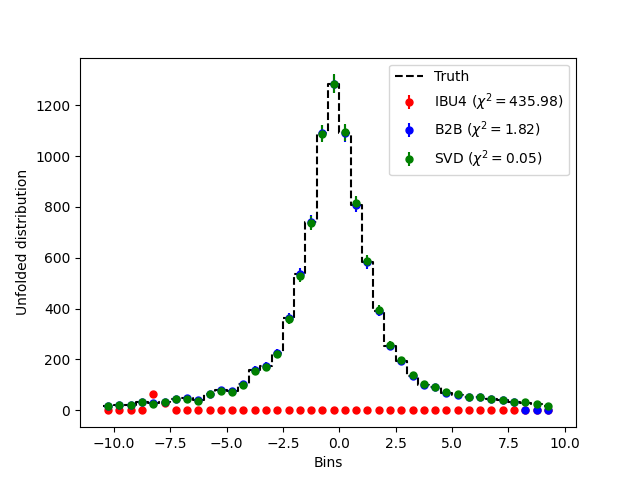
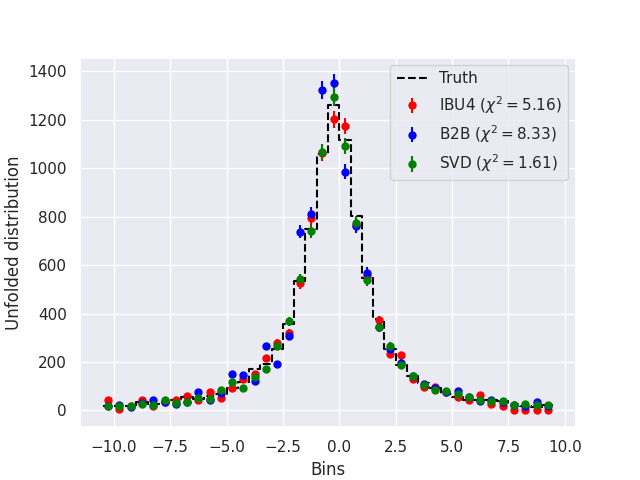
Studies update.

diff --git a/studies/functions/comparisons.py b/studies/functions/comparisons.py
@@ -8,9 +8,6 @@
 # Date:       2023-06-26
 # Copyright:  (c) 2023 Gianluca Bianco under the MIT license.
 
-# Input variables
-distributions=["breit-wigner", "normal", "double-peaked"]
-
 # STD modules
 import argparse as ap
 import os
@@ -71,7 +68,7 @@ def compute_chi2_dof(bin_contents, truth_bin_contents):
     return chi2_dof
 
 
-def plot_unfolded_distr(data, distr):
+def plot_comparisons(data, distr, truth, bins, min_bin, max_bin):
     """
     Plots the unfolded distributions for different unfolding methods.
 
@@ -81,48 +78,40 @@ def plot_unfolded_distr(data, distr):
     """
 
     # Get binning information
-    binning_file = "../data/{}/binning.txt".format(distr)
-    binning = np.loadtxt(binning_file)
-    bins = int(binning[0])
-    min_bin = int(binning[1])
-    max_bin = int(binning[2])
-    bin_edges = np.linspace(min_bin, max_bin, bins + 1)
+    
 
     # Plot truth distribution
+    bin_edges = np.linspace(min_bin, max_bin, bins + 1)
     marker_offset = (bin_edges[1] - bin_edges[0]) / 2.0
-    truth_bin_contents = np.loadtxt(
-        "../data/{}/truth_bin_content.txt".format(distr)
-    )
     plt.step(
         x=np.concatenate(
             ([bin_edges[0] - (bin_edges[1] - bin_edges[0])], bin_edges[:-1])
         ),
-        y=np.concatenate(([truth_bin_contents[0]], truth_bin_contents)),
+        y=np.concatenate(([truth[0]], truth)),
         label="Truth",
         color="black",
         linestyle="dashed",
     )
 
     # Iterate over the unfolding methods
-    for method, file in data.items():
+    for method, unfolded in data.items():
 
         # Plot each unfolding method
-        bin_contents = np.loadtxt(file)
-        truth_bin_contents = np.where(
-            truth_bin_contents == 0, 1e-6, truth_bin_contents
+        truth = np.where(
+            truth == 0, 1e-6, truth
         )  # Trick for chi2
-        chi2_dof = compute_chi2_dof(bin_contents, truth_bin_contents)
+        chi2_dof = compute_chi2_dof(unfolded, truth)
         if method == "IBU4":
             plot_errorbar(
-                bin_edges - marker_offset, bin_contents, "red", "o", method, chi2_dof
+                bin_edges - marker_offset, unfolded, "red", "o", method, chi2_dof
             )
         elif method == "B2B":
             plot_errorbar(
-                bin_edges - marker_offset, bin_contents, "blue", "o", method, chi2_dof
+                bin_edges - marker_offset, unfolded, "blue", "o", method, chi2_dof
             )
         elif method == "SVD":
             plot_errorbar(
-                bin_edges - marker_offset, bin_contents, "green", "o", method, chi2_dof
+                bin_edges - marker_offset, unfolded, "green", "o", method, chi2_dof
             )
 
         # Plot settings
@@ -134,32 +123,6 @@ def plot_unfolded_distr(data, distr):
         plt.savefig("../img/comparisons/{}.png".format(distr))
 
     plt.close()
-    print("Done.")
 
 
-def main():
-    
-    # Iterate over distributions
-    print()
-    for distr in distributions:
-        INFO("Producing comparisons for the {} distribution".format(distr))
 
-        # Read input data for the given distribution
-        data = {
-            "IBU4": "output/RooUnfold/{}/unfolded_IBU_bin_contents.txt".format(distr),
-            "B2B": "output/RooUnfold/{}/unfolded_B2B_bin_contents.txt".format(distr),
-            "MI": "output/RooUnfold/{}/unfolded_MI_bin_contents.txt".format(distr),
-            "SVD": "output/RooUnfold/{}/unfolded_SVD_bin_contents.txt".format(distr),
-        }
-
-        # Creating the output directory
-        if not os.path.exists("../img/comparisons"):
-            os.makedirs("../img/comparisons")
-
-        # Plot the unfolded distributions for comparison with truth
-        plot_unfolded_distr(data, distr)
-        print()
-
-
-if __name__ == "__main__":
-    main()

diff --git a/studies/functions/RooUnfold.py b/studies/functions/RooUnfold.py
@@ -8,31 +8,16 @@
 # Date:       2023-06-13
 # Copyright:  (c) 2023 Gianluca Bianco under the MIT license.
 
-# Input variables
-distributions=["breit-wigner", "normal", "double-peaked", "exponential"]
-samples=10000
-max_bin=10
-min_bin=-10
-bins=40
-
-# Standard modules
+# STD modules
 import os
 
 # Data science modules
 import ROOT as r
-import numpy as np
-
-# Utils modules
-from functions.custom_logger import INFO
-from functions.ROOT_converter import (
-    TH1_to_array
-)
-from functions.generator import generate_standard, generate_double_peaked, generate
 
 # ROOT settings
 r.gROOT.SetBatch(True)
 
-def plot_response(response, distr):
+def RooUnfold_plot_response(response, distr):
     """
     Plots the unfolding response matrix.
 
@@ -40,6 +25,10 @@ def plot_response(response, distr):
         response (ROOT.RooUnfoldResponse): the response matrix to be plotted.
         distr (distr): the distribution to be generated.
     """
+    
+    # Creating the path
+    if not os.path.exists("../img/RooUnfold/{}".format(distr)):
+        os.makedirs("../img/RooUnfold/{}".format(distr))
 
     # Basic properties
     m_response_save = response.HresponseNoOverflow()
@@ -54,7 +43,7 @@ def plot_response(response, distr):
     m_response_canvas.SaveAs("../img/RooUnfold/{}/response.png".format(distr))
 
 
-def unfolder(type, m_response, h_meas, distr):
+def RooUnfold_unfolder(type, m_response, h_meas):
     """
     Unfold a distribution based on a certain type of unfolding.
 
@@ -62,7 +51,6 @@ def unfolder(type, m_response, h_meas, distr):
         type (str): the unfolding type (MI, SVD, IBU).
         m_response (ROOT.TH2F): the response matrix.
         h_meas (ROOT.TH1F): the measured pseudo-data.
-        distr (distr): the generated distribution.
 
     Returns:
         ROOT.TH1F: the unfolded histogram.
@@ -91,17 +79,10 @@ def unfolder(type, m_response, h_meas, distr):
     histo = unfolder.Hunfold()
     histo.SetName("unfolded_{}".format(type))
 
-    # Save the unfolded histogram
-    bin_contents = TH1_to_array(histo)
-    np.savetxt(
-        "output/RooUnfold/{}/unfolded_{}_bin_contents.txt".format(distr, type),
-        bin_contents,
-    )
-
     return histo
 
 
-def plot_unfolding(truth, meas, unfolded, distr):
+def RooUnfold_plot(truth, meas, unfolded, distr):
     """
     Plots the unfolding results.
 
@@ -141,36 +122,3 @@ def plot_unfolding(truth, meas, unfolded, distr):
     # Save canvas
     canvas.Draw()
     canvas.SaveAs("../img/RooUnfold/{}/unfolded_{}.png".format(distr, ext))
-
-
-def main():
-    
-    # Iterate over distributions
-    print()
-    for distr in distributions:
-        INFO("Unfolding the {} distribution".format(distr))
-
-        # Create dirs
-        if not os.path.exists("../img/RooUnfold/{}".format(distr)):
-            os.makedirs("../img/RooUnfold/{}".format(distr))
-        if not os.path.exists("output/RooUnfold/{}".format(distr)):
-            os.makedirs("output/RooUnfold/{}".format(distr))
-            
-        # Generating the distribution
-        truth, meas, response = generate(distr, bins, min_bin, max_bin, samples, overflow=False)
-        plot_response(response, distr)
-
-        # Performing the unfolding with different methods
-        for unf_type in ["MI", "IBU", "SVD", "B2B"]:
-            unfolded = unfolder(unf_type, response, meas, distr)
-            plot_unfolding(truth, meas, unfolded, distr)
-            
-        # Deleting histograms
-        del meas, truth, response
-        
-        print()
-    print("Done.")
-
-
-if __name__ == "__main__":
-    main()

diff --git a/studies/analysis.py b/studies/analysis.py
@@ -1,0 +1,72 @@
+# Input variables
+distributions=["breit-wigner", "normal", "double-peaked", "exponential"]
+samples=10000
+max_bin=10
+min_bin=-10
+bins=40
+
+from functions.ROOT_converter import TH1_to_array, TH2_to_array
+from functions.custom_logger import INFO
+from functions.generator import generate
+from functions.RooUnfold import RooUnfold_unfolder, RooUnfold_plot, RooUnfold_plot_response
+from functions.QUnfolder import QUnfold_unfolder_and_plot
+from functions.comparisons import plot_comparisons
+
+def main():
+    
+    for distr in distributions:
+        
+        # Generate data
+        INFO("Unfolding the {} distribution".format(distr))
+        truth, meas, response = generate(distr, bins, min_bin, max_bin, samples)
+        
+        ########################## Classic ###########################
+        
+        # RooUnfold settings
+        r_response = response
+        RooUnfold_plot_response(r_response, distr)
+        r_response.UseOverflow(False)
+        
+        # Matrix inversion (MI)
+        unfolded_MI = RooUnfold_unfolder("MI", r_response, meas)
+        RooUnfold_plot(truth, meas, unfolded_MI, distr)
+        
+        # Iterative Bayesian unfolding (IBU)
+        unfolded_IBU = RooUnfold_unfolder("IBU", r_response, meas)
+        RooUnfold_plot(truth, meas, unfolded_IBU, distr)
+        
+        # Tikhonov unfolding (SVD)
+        unfolded_SVD = RooUnfold_unfolder("SVD", r_response, meas)
+        RooUnfold_plot(truth, meas, unfolded_SVD, distr)
+        
+        # Bin-to-Bin unfolding (B2B)
+        unfolded_B2B = RooUnfold_unfolder("B2B", r_response, meas)
+        RooUnfold_plot(truth, meas, unfolded_B2B, distr)
+        
+        ########################## Quantum ###########################
+        
+        # QUnfold settings
+        truth = TH1_to_array(truth, overflow=True)        
+        meas = TH1_to_array(meas, overflow=True)
+        response = TH2_to_array(response.Hresponse(), overflow=True)
+        
+        # Simulated annealing (SA)
+        unfolded_SA = QUnfold_unfolder_and_plot("SA", response, meas, truth, distr, bins, min_bin, max_bin)
+        
+        ########################## Compare ###########################
+        
+        # Comparison settings
+        data = {
+            "IBU4": TH1_to_array(unfolded_IBU, overflow=False),
+            "B2B": TH1_to_array(unfolded_B2B, overflow=False),
+            "MI": TH1_to_array(unfolded_MI, overflow=False),
+            "SVD": TH1_to_array(unfolded_SVD, overflow=False),
+            "SA": unfolded_SA[1:-1],
+        }
+        
+        # Plot comparisons
+        plot_comparisons(data, distr, truth[1:-1], bins, min_bin, max_bin)
+        print("Done", end="\n\n")
+
+if __name__ == "__main__":
+    main()

diff --git a/studies/functions/QUnfolder.py b/studies/functions/QUnfolder.py
@@ -1,0 +1,67 @@
+#!/usr/bin/env python
+# -*- coding: utf-8 -*-
+
+# ---------------------- Metadata ----------------------
+#
+# File name:  unfolding.py
+# Author:     Gianluca Bianco (biancogianluca9@gmail.com)
+# Date:       2023-07-27
+# Copyright:  (c) 2023 Gianluca Bianco under the MIT license.
+
+# Standard modules
+import sys, os
+
+# Data science modules
+import numpy as np
+
+# QUnfold modules
+sys.path.append("../src")
+from QUnfold import QUnfoldQUBO, QUnfoldPlotter
+
+
+def QUnfold_unfolder_and_plot(unf_type, response, meas, truth, distr, bins, min_bin, max_bin):
+    """
+    Unfolds the measured data using QUnfold.
+
+    Args:
+        unf_type (str): The type of unfolding method to use (e.g., "SA" for Simulated Annealing).
+        response (numpy.Array): The response matrix describing the detector response.
+        meas (numpy.Array): The measured data to be unfolded.
+        truth (numpy.Array): The true underlying data (for comparison purposes).
+        distr (str): The distribution or category name for organizing the output plots.
+        bins (int): The number of bins to use in the unfolding process.
+        min_bin (float): The minimum value of the first bin.
+        max_bin (float): The maximum value of the last bin.
+
+    Returns:
+        numpy.Array: The unfolded data obtained from the unfolding process.
+    """
+    
+    # Create dirs
+    if not os.path.exists("../img/QUnfold/{}".format(distr)):
+        os.makedirs("../img/QUnfold/{}".format(distr))
+    
+    # Variables
+    unfolded = None
+    title = ""
+    
+    # Unfold
+    unfolder = QUnfoldQUBO(response, meas)
+    if unf_type == "SA":
+        unfolded = unfolder.solve_simulated_annealing(lam=0.1, num_reads=100)
+        title = "Simulated Annealing Unfolding"
+        
+    # Plot results
+    plotter = QUnfoldPlotter(
+        unfolder=unfolder,
+        truth=truth,
+        binning=np.linspace(min_bin, max_bin, bins + 1),
+    )
+    plotter.savePlot(
+        "../img/QUnfold/{}/unfolded_{}.png".format(distr, unf_type), title
+    )
+    plotter.saveResponse(
+        "../img/QUnfold/{}/response.png".format(distr, unf_type)
+    )
+            
+    return unfolded

diff --git a/studies/functions/generator.py b/studies/functions/generator.py
@@ -156,7 +156,7 @@ def generate_double_peaked(truth, meas, response, type, samples):
 
         return response
 
-def generate(distr, bins, min_bin, max_bin, samples, overflow=True):
+def generate(distr, bins, min_bin, max_bin, samples):
     """
     Generate simulated data and response for a given distribution.
 
@@ -166,7 +166,6 @@ def generate(distr, bins, min_bin, max_bin, samples, overflow=True):
         min_bin (float): The minimum value of the histogram range.
         max_bin (float): The maximum value of the histogram range.
         samples (int): The number of data samples to generate.
-        overflow (bool, optional): If True, allow the overflow bin for histograms. Defaults to True.
 
     Returns:
         ROOT.TH1F: The histogram representing the truth distribution.
@@ -190,9 +189,5 @@ def generate(distr, bins, min_bin, max_bin, samples, overflow=True):
     elif any(d in distr for d in ["double-peaked"]):
         truth, meas = generate_double_peaked(truth, meas, response, "data", samples)
         response = generate_double_peaked(truth, meas, response, "response", samples)
-        
-    # Overflow check
-    if not overflow:
-        response.UseOverflow(False)
     
     return truth, meas, response
